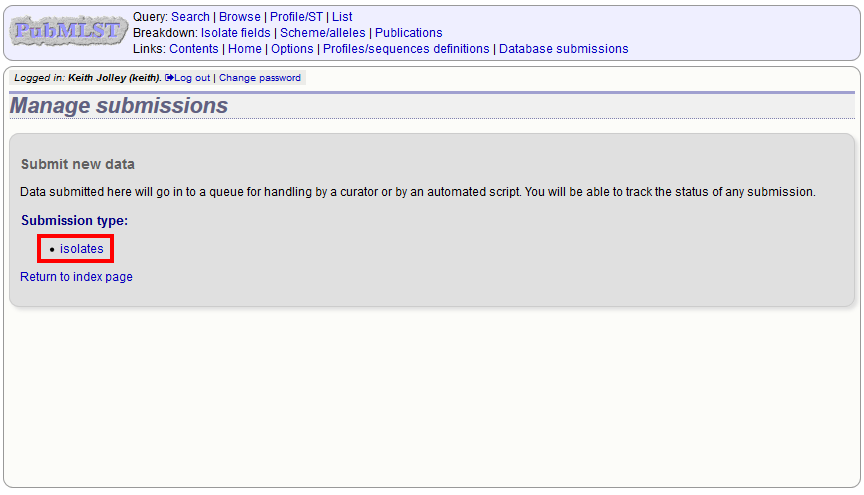
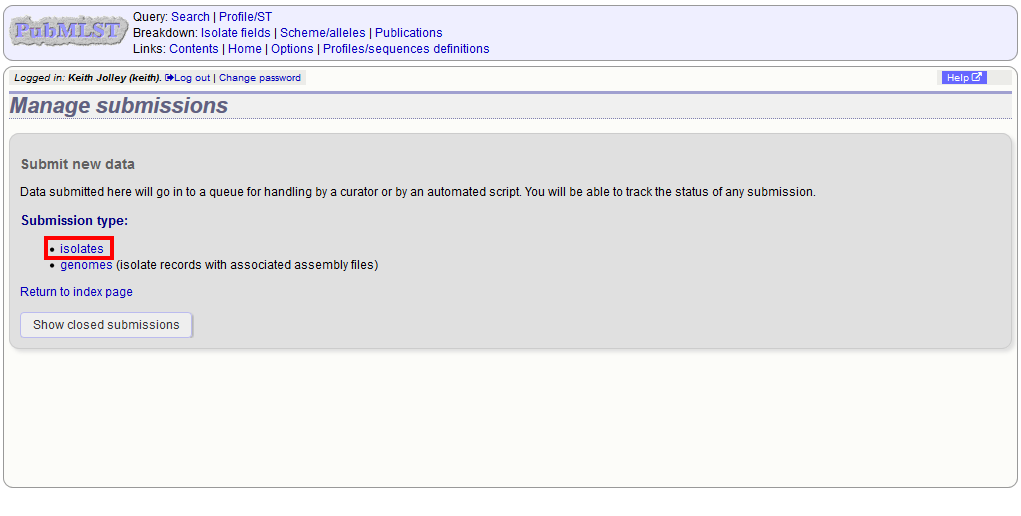
Document genome submissions.

diff --git a/submissions.rst b/submissions.rst
@@ -346,6 +346,29 @@ submission page.
 
 .. image:: /images/submissions/submission34.png
 
+*****************
+Genome submission
+*****************
+Submitting genomes uses the same process as standard 
+:ref:`isolate submission<isolate_submissions>`. The only difference is that 
+there are a couple of extra required fields in the submission table:
+
+* assembly_filename - this is the name of the FASTA file containing the
+  assembly contigs. This must be uploaded as a supporting file - you will not
+  be able to finalize the submission until every isolate record has a matching
+  contig file.
+  
+* sequence_method - the sequencing technology used to generate the sequences. 
+  The allowed values are listed on the submission page.
+  
+To start the submission, click the 'genomes' link under submission type on the
+submission management page.
+
+.. image:: /images/submissions/submission36.png
+
+Then follow the steps for :ref:`isolate submission<isolate_submissions>`, 
+uploading the contigs files as supporting files.
+
 ************************************************
 Removing submissions from your notification list
 ************************************************
